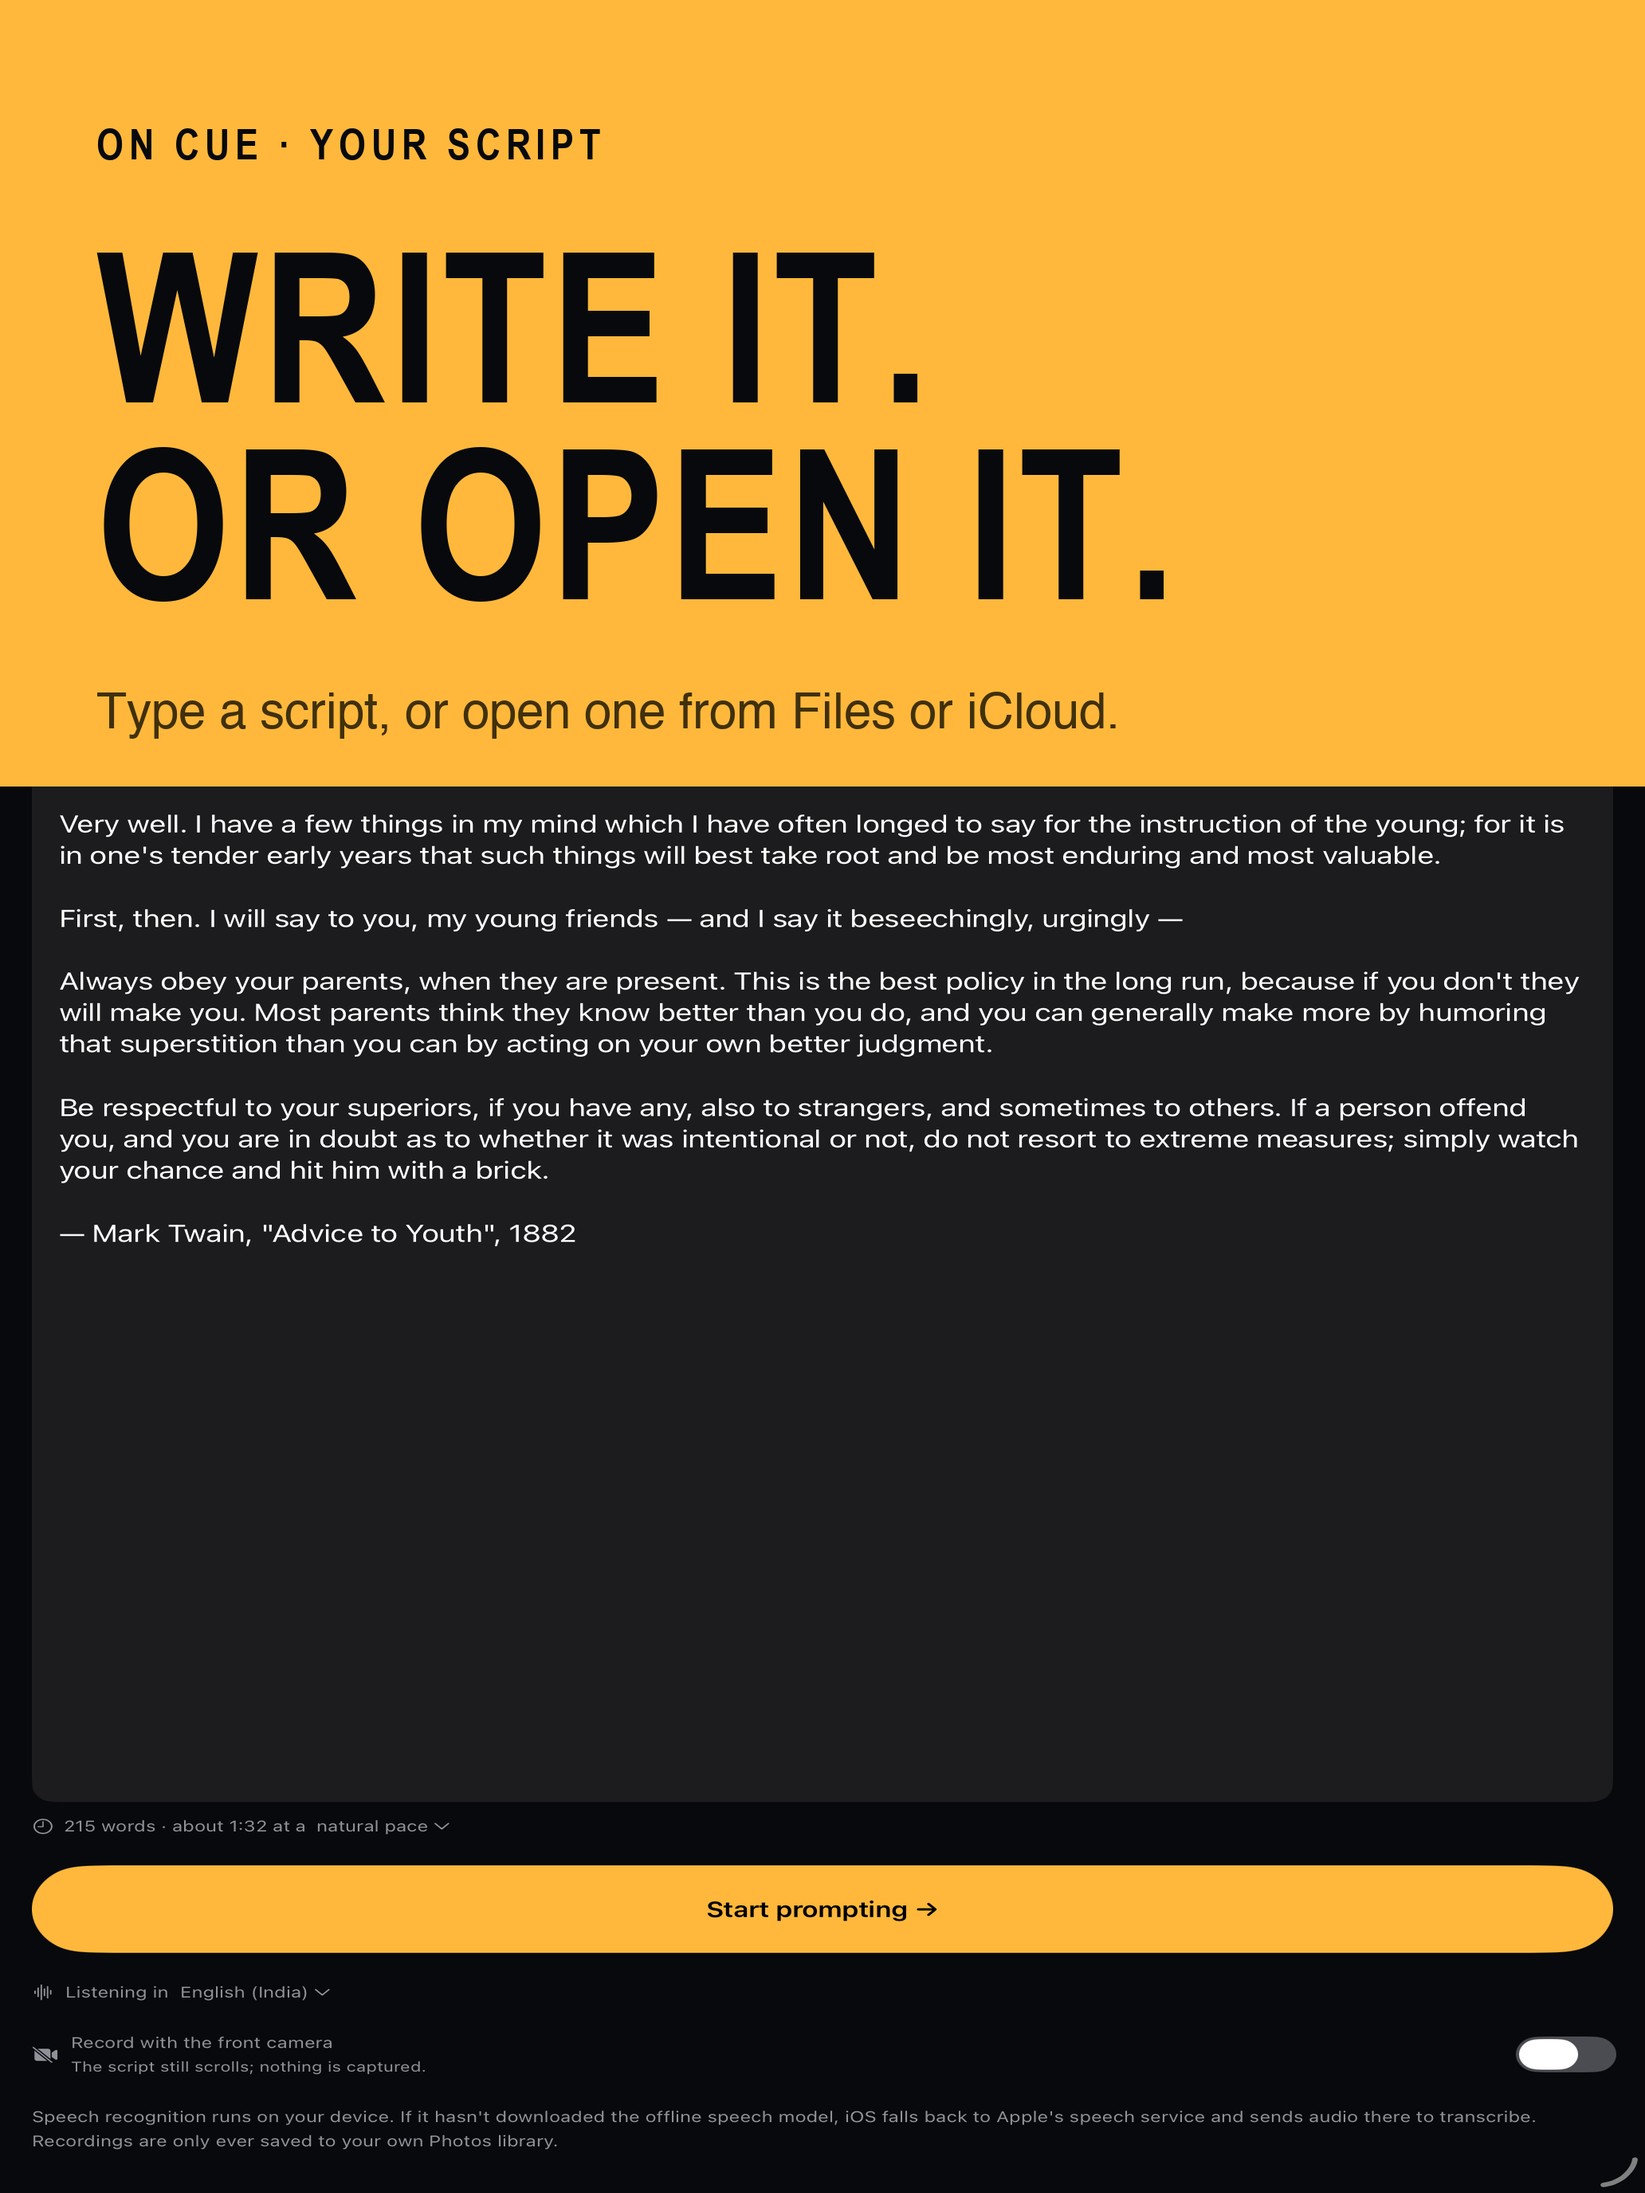
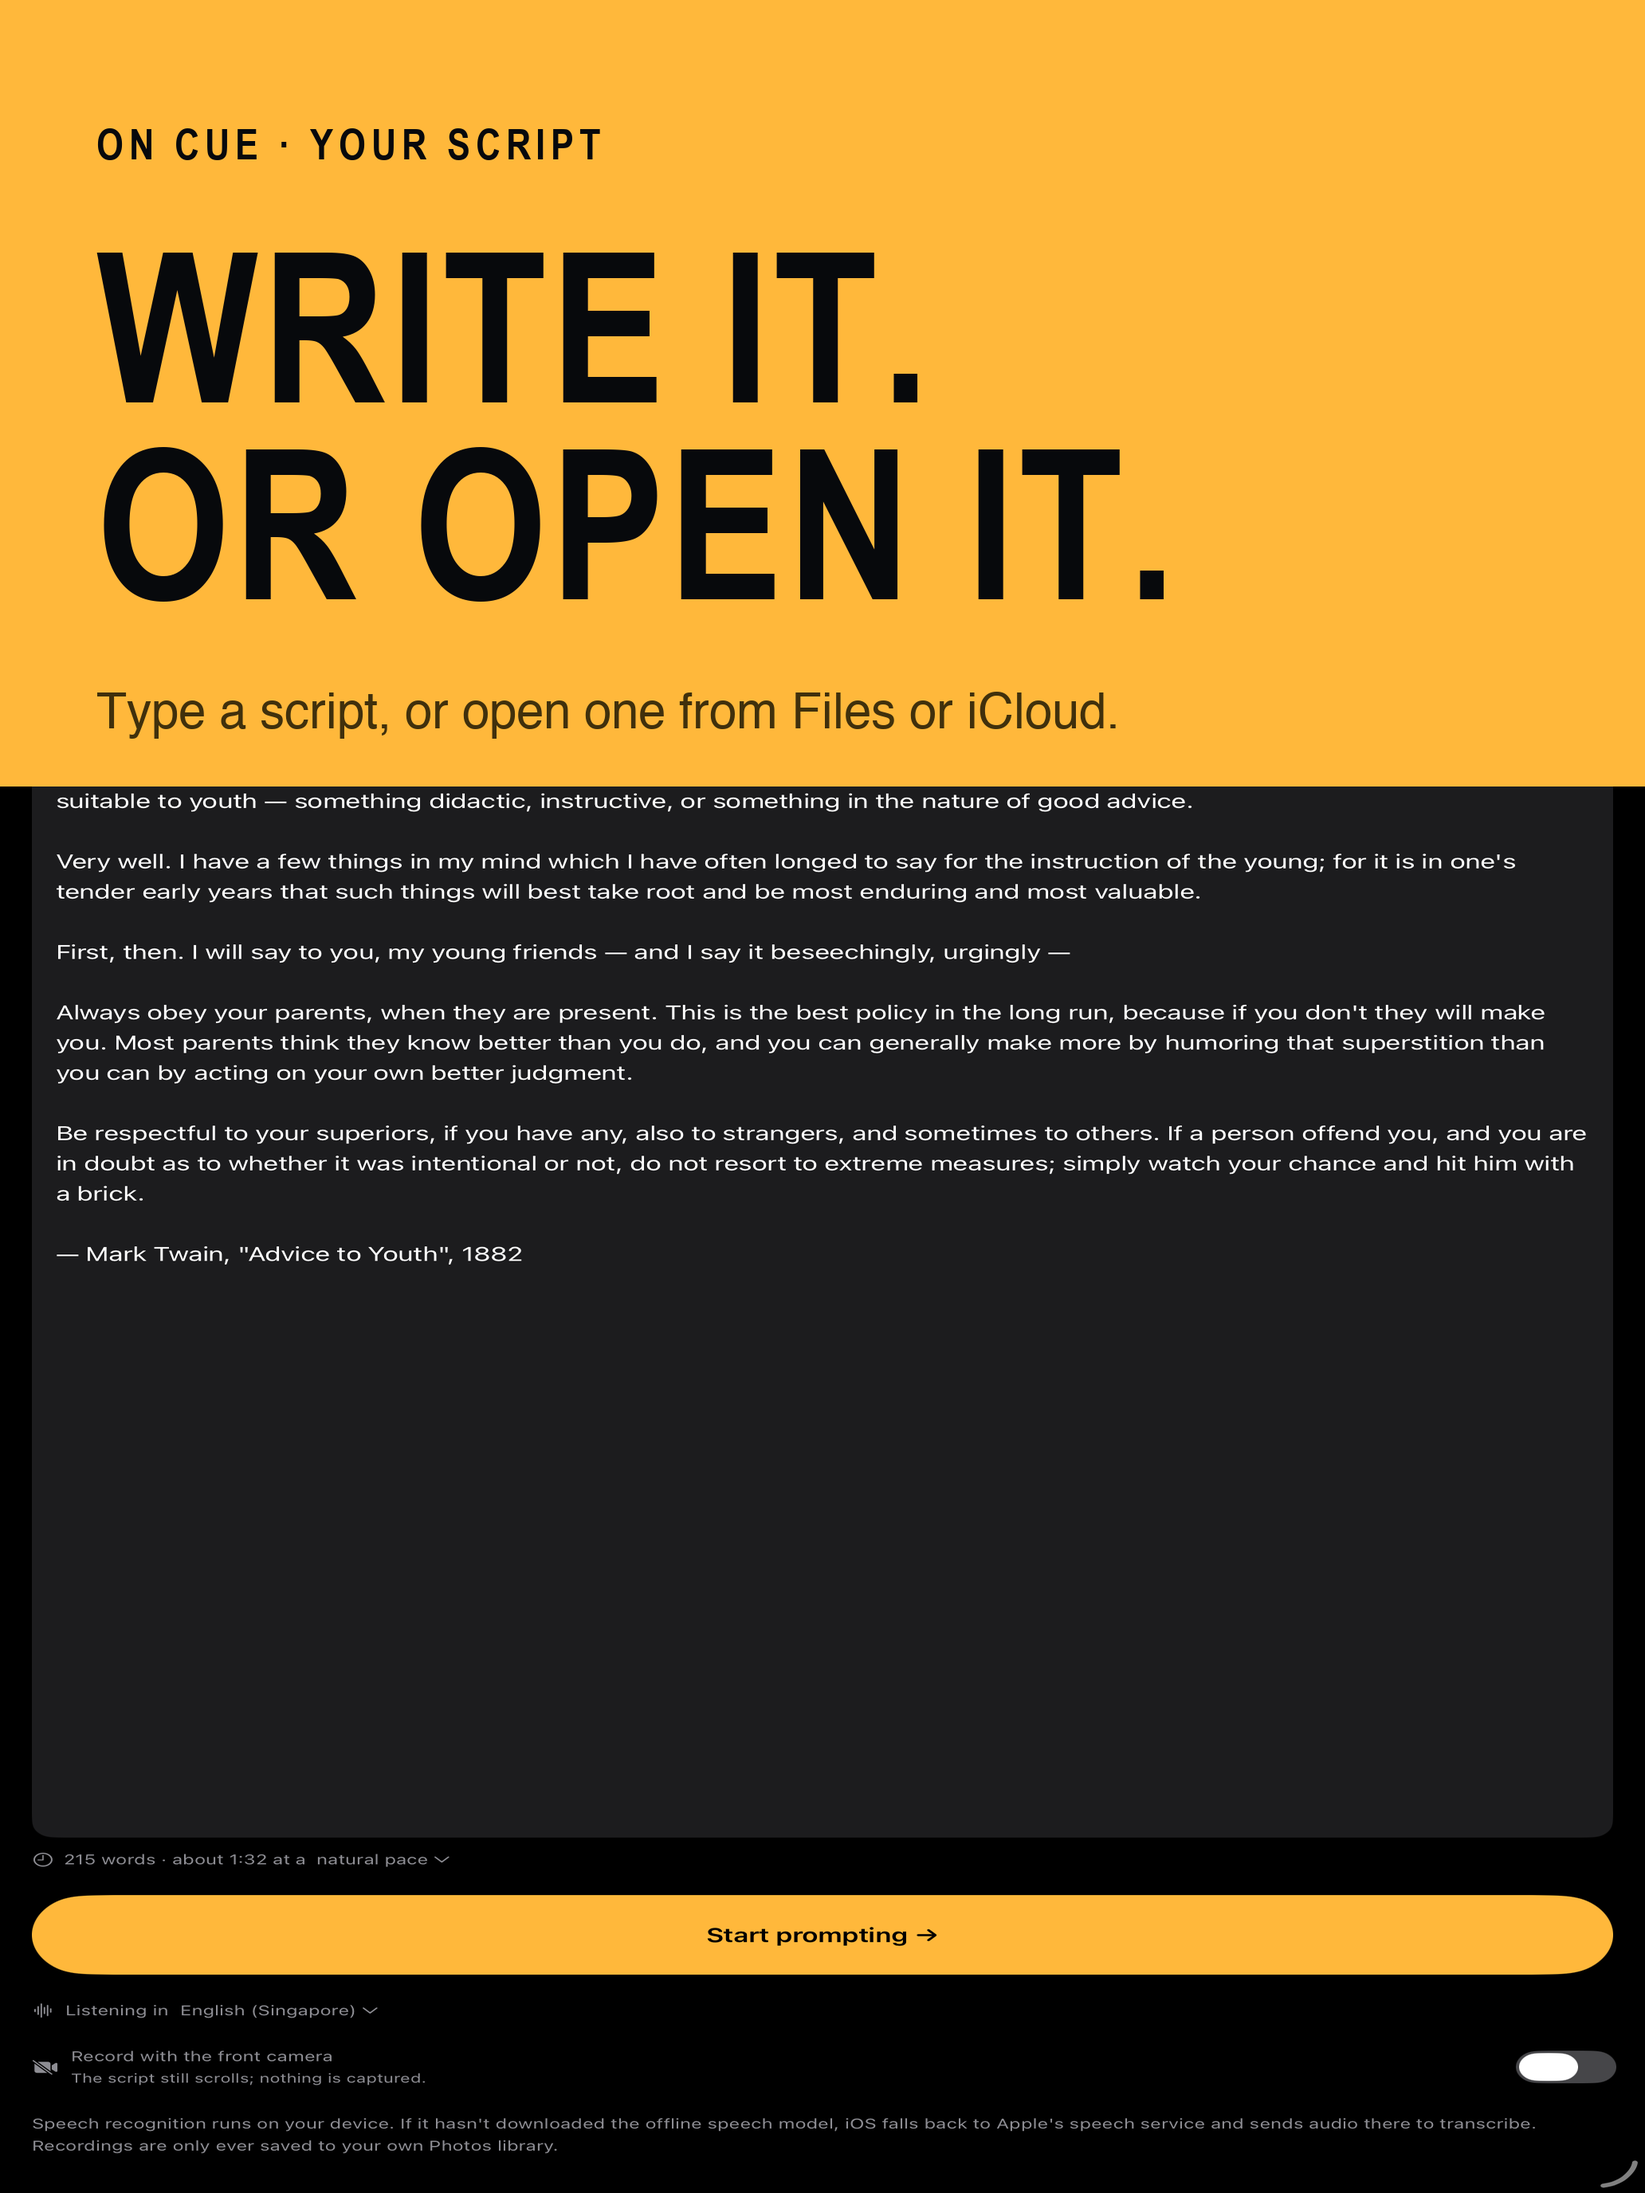
Reshoot the setup screenshot for the screen as it now is
The live frame showed 1.5's setup screen — the in-content masthead and
larger script type — neither of which survived the hotfix. Its crop also
started 20% down to clear that masthead; with the masthead gone, the same
crop hid the card's own header and left body text floating in a box. It
now starts just below the navigation bar, so the frame opens on Script /
Open with the script from its first line.

Claude-Session: https://claude.ai/code/session_01PLYXeJk4B4g9YcHByPt4ta

Changed region(s): [[0.031, 0.3438, 0.9612, 0.5938], [0.0, 0.8438, 0.9922, 1.0], [0.3101, 0.9688, 0.3411, 1.0]]

diff --git a/Tools/marketing_screens.py b/Tools/marketing_screens.py
@@ -14,7 +14,11 @@ FRAMES = [
     ("m-mirroring", "04-rigs",    "On Cue · Mirror",    "Built\nfor rigs.",
      "Flips for teleprompter glass. Controls stay put.", 0.085),
     ("m-editor",    "05-write",   "On Cue · Your script", "Write it.\nOr open it.",
-     "Type a script, or open one from Files or iCloud.", 0.20),
+     # Starts just under the navigation bar. It was 0.20 to crop past the
+     # old in-content masthead; with that gone, 0.20 also hid the card's own
+     # header and left body text floating in a box, while going as high as
+     # the prompter frames sliced the navigation title in half.
+     "Type a script, or open one from Files or iCloud.", 0.120),
 ]
 
 def main(src, dest):
